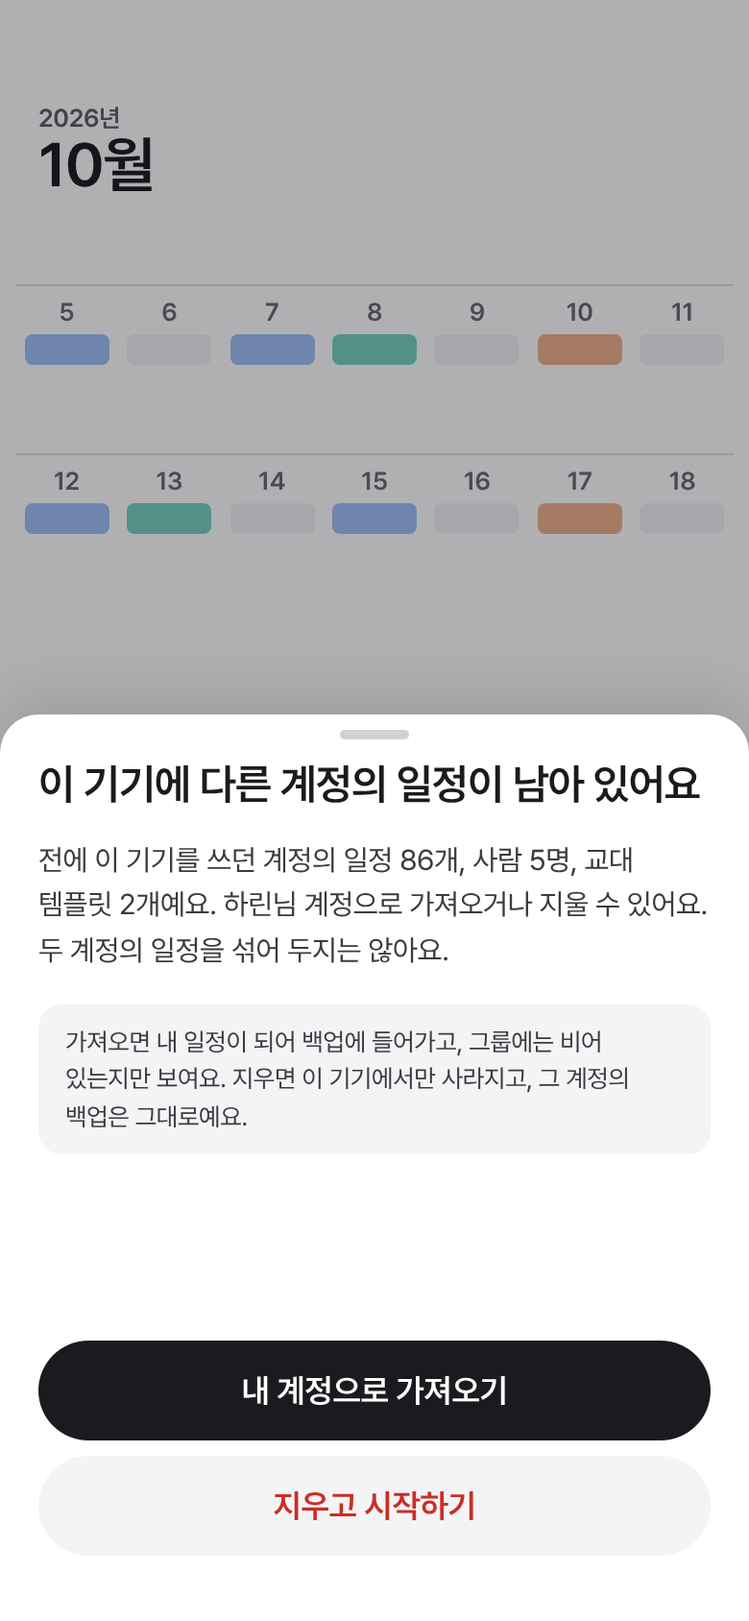
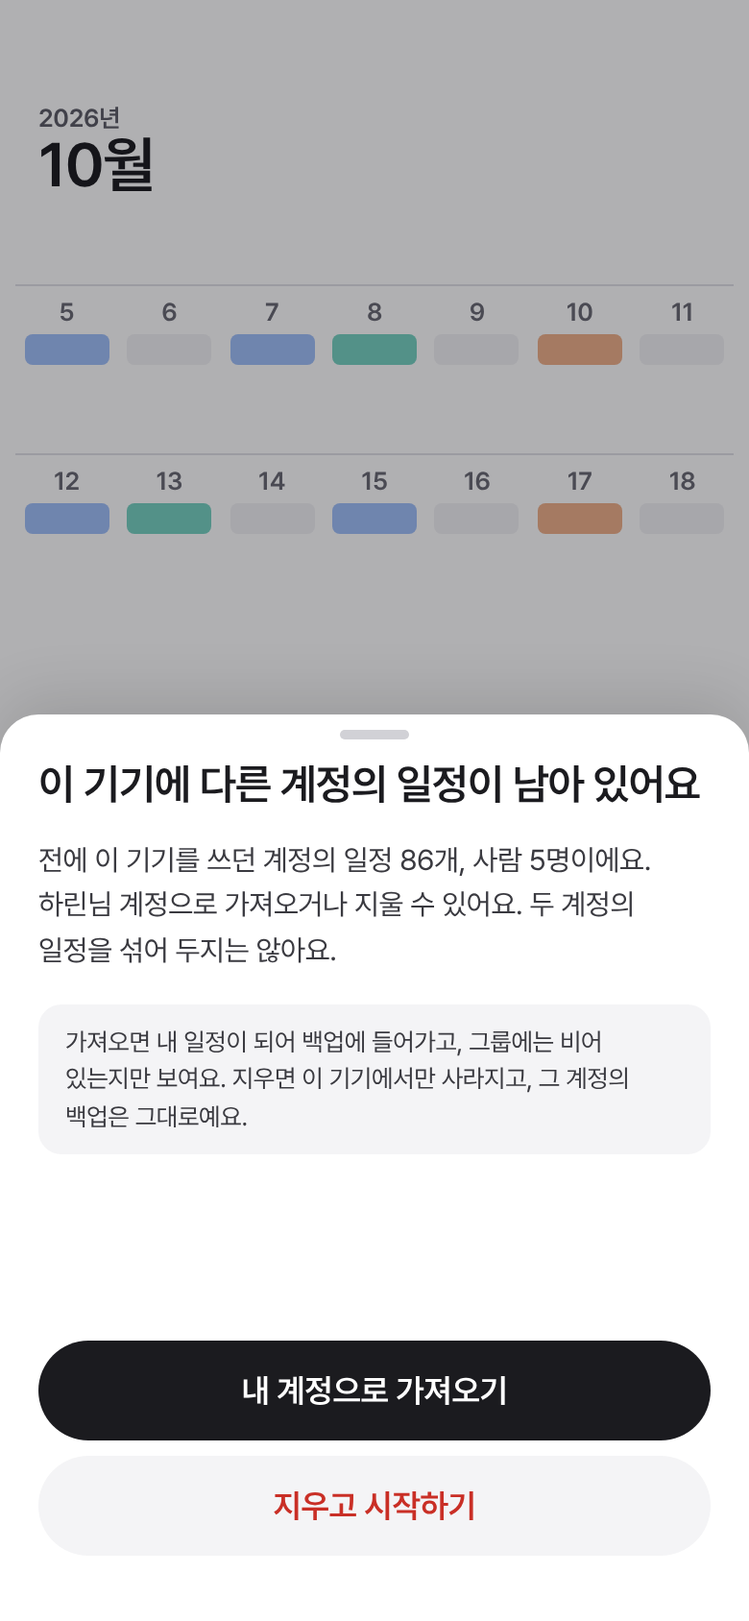
docs(design): settle the recovery-entry decisions raised by the iOS foundation PR
Recovery words show the only completion as a hint and fill it when the
cell is left, because Hangul composition passes through other words'
prefixes. The keep-or-discard sheet (screen 24) now comes before the
restore, since the core's restoreFromCode takes that choice as input,
and its copy drops the template count the core cannot give. A guest who
skipped the age checkbox goes back to sign-in before a new account, the
default display names and the brand-button opacity exception are written
down, and the KeepLocal board and PNG follow the new copy.

Claude-Session: https://claude.ai/code/session_01NfNQYytRc1WA56NULSw6PM

Changed region(s): [[0.0615, 0.5237, 0.9231, 0.6161]]

diff --git a/docs/design/boards/KeepLocal.dc.html b/docs/design/boards/KeepLocal.dc.html
@@ -18,7 +18,7 @@ input::placeholder{color:#696973}
 </style>
 </helmet>
 <div style="width: 390px; height: 844px; position: relative; overflow: hidden; background: #ffffff; color: #1b1b1f; font-family: Pretendard, -apple-system, BlinkMacSystemFont, 'Apple SD Gothic Neo', 'Noto Sans KR', sans-serif; letter-spacing: -0.01em; word-break: keep-all; overflow-wrap: break-word">
-<div aria-hidden="true" style="position: absolute; inset: 0"><div style="position: absolute; top: 54px; left: 20px; display: flex; flex-direction: column"><span style="font-size: 13px; font-weight: 600; color: #5c5c66">2026년</span><span style="font-size: 32px; font-weight: 600; line-height: 1.1; letter-spacing: -0.025em">10월</span></div><div style="position: absolute; top: 148px; left: 8px; width: 374px; display: grid; grid-template-columns: repeat(7, minmax(0, 1fr)); grid-auto-rows: 88px"><div style="border-top: 1px solid #e1e1e6; display: flex; flex-direction: column; align-items: center; padding-top: 6px; gap: 4px"><span style="font-size: 13px; font-weight: 600; color: #696973">5</span><span style="width: 44px; height: 16px; border-radius: 4px; background: #a0c0fa"></span></div><div style="border-top: 1px solid #e1e1e6; display: flex; flex-direction: column; align-items: center; padding-top: 6px; gap: 4px"><span style="font-size: 13px; font-weight: 600; color: #696973">6</span><span style="width: 44px; height: 16px; border-radius: 4px; background: #f2f2f5"></span></div><div style="border-top: 1px solid #e1e1e6; display: flex; flex-direction: column; align-items: center; padding-top: 6px; gap: 4px"><span style="font-size: 13px; font-weight: 600; color: #696973">7</span><span style="width: 44px; height: 16px; border-radius: 4px; background: #a0c0fa"></span></div><div style="border-top: 1px solid #e1e1e6; display: flex; flex-direction: column; align-items: center; padding-top: 6px; gap: 4px"><span style="font-size: 13px; font-weight: 600; color: #696973">8</span><span style="width: 44px; height: 16px; border-radius: 4px; background: #77d1c2"></span></div><div style="border-top: 1px solid #e1e1e6; display: flex; flex-direction: column; align-items: center; padding-top: 6px; gap: 4px"><span style="font-size: 13px; font-weight: 600; color: #696973">9</span><span style="width: 44px; height: 16px; border-radius: 4px; background: #f2f2f5"></span></div><div style="border-top: 1px solid #e1e1e6; display: flex; flex-direction: column; align-items: center; padding-top: 6px; gap: 4px"><span style="font-size: 13px; font-weight: 600; color: #696973">10</span><span style="width: 44px; height: 16px; border-radius: 4px; background: #efb08a"></span></div><div style="border-top: 1px solid #e1e1e6; display: flex; flex-direction: column; align-items: center; padding-top: 6px; gap: 4px"><span style="font-size: 13px; font-weight: 600; color: #696973">11</span><span style="width: 44px; height: 16px; border-radius: 4px; background: #f2f2f5"></span></div><div style="border-top: 1px solid #e1e1e6; display: flex; flex-direction: column; align-items: center; padding-top: 6px; gap: 4px"><span style="font-size: 13px; font-weight: 600; color: #696973">12</span><span style="width: 44px; height: 16px; border-radius: 4px; background: #a0c0fa"></span></div><div style="border-top: 1px solid #e1e1e6; display: flex; flex-direction: column; align-items: center; padding-top: 6px; gap: 4px"><span style="font-size: 13px; font-weight: 600; color: #696973">13</span><span style="width: 44px; height: 16px; border-radius: 4px; background: #77d1c2"></span></div><div style="border-top: 1px solid #e1e1e6; display: flex; flex-direction: column; align-items: center; padding-top: 6px; gap: 4px"><span style="font-size: 13px; font-weight: 600; color: #696973">14</span><span style="width: 44px; height: 16px; border-radius: 4px; background: #f2f2f5"></span></div><div style="border-top: 1px solid #e1e1e6; display: flex; flex-direction: column; align-items: center; padding-top: 6px; gap: 4px"><span style="font-size: 13px; font-weight: 600; color: #696973">15</span><span style="width: 44px; height: 16px; border-radius: 4px; background: #a0c0fa"></span></div><div style="border-top: 1px solid #e1e1e6; display: flex; flex-direction: column; align-items: center; padding-top: 6px; gap: 4px"><span style="font-size: 13px; font-weight: 600; color: #696973">16</span><span style="width: 44px; height: 16px; border-radius: 4px; background: #f2f2f5"></span></div><div style="border-top: 1px solid #e1e1e6; display: flex; flex-direction: column; align-items: center; padding-top: 6px; gap: 4px"><span style="font-size: 13px; font-weight: 600; color: #696973">17</span><span style="width: 44px; height: 16px; border-radius: 4px; background: #efb08a"></span></div><div style="border-top: 1px solid #e1e1e6; display: flex; flex-direction: column; align-items: center; padding-top: 6px; gap: 4px"><span style="font-size: 13px; font-weight: 600; color: #696973">18</span><span style="width: 44px; height: 16px; border-radius: 4px; background: #f2f2f5"></span></div></div><div style="position: absolute; inset: 0; background: rgba(10,10,14,0.32)"></div></div><section role="dialog" aria-modal="true" aria-label="이 기기에 남은 일정" style="position: absolute; left: 0; top: 372px; width: 390px; height: 472px; box-sizing: border-box; padding: 8px 20px 34px; background: #ffffff; border-radius: 20px 20px 0 0; box-shadow: 0 -8px 32px rgba(0,0,0,0.12); display: flex; flex-direction: column; gap: 16px"><div aria-hidden="true" style="align-self: center; width: 36px; height: 5px; border-radius: 3px; background: #d1d1d6"></div><h2 style="margin: -6px 0 0; font-size: 22px; font-weight: 600; letter-spacing: -0.02em">이 기기에 다른 계정의 일정이 남아 있어요</h2><p style="margin: 0; font-size: 15px; line-height: 1.55; color: #3a3a40">전에 이 기기를 쓰던 계정의 일정 86개, 사람 5명, 교대 템플릿 2개예요. 하린님 계정으로 가져오거나 지울 수 있어요. 두 계정의 일정을 섞어 두지는 않아요.</p><p style="margin: 0; padding: 10px 14px; border-radius: 12px; background: #f4f4f6; font-size: 13px; line-height: 1.5; color: #3a3a40">가져오면 내 일정이 되어 백업에 들어가고, 그룹에는 비어 있는지만 보여요. 지우면 이 기기에서만 사라지고, 그 계정의 백업은 그대로예요.</p><div style="margin-top: auto; display: flex; flex-direction: column; gap: 8px"><a href="Month.dc.html" style="height: 52px; border-radius: 999px; background: #1b1b1f; color: #ffffff; display: flex; align-items: center; justify-content: center; font-size: 17px; font-weight: 600">내 계정으로 가져오기</a><a href="Month.dc.html" style="height: 52px; border-radius: 999px; background: #f4f4f6; color: #c92f26; display: flex; align-items: center; justify-content: center; font-size: 17px; font-weight: 600">지우고 시작하기</a></div></section>
+<div aria-hidden="true" style="position: absolute; inset: 0"><div style="position: absolute; top: 54px; left: 20px; display: flex; flex-direction: column"><span style="font-size: 13px; font-weight: 600; color: #5c5c66">2026년</span><span style="font-size: 32px; font-weight: 600; line-height: 1.1; letter-spacing: -0.025em">10월</span></div><div style="position: absolute; top: 148px; left: 8px; width: 374px; display: grid; grid-template-columns: repeat(7, minmax(0, 1fr)); grid-auto-rows: 88px"><div style="border-top: 1px solid #e1e1e6; display: flex; flex-direction: column; align-items: center; padding-top: 6px; gap: 4px"><span style="font-size: 13px; font-weight: 600; color: #696973">5</span><span style="width: 44px; height: 16px; border-radius: 4px; background: #a0c0fa"></span></div><div style="border-top: 1px solid #e1e1e6; display: flex; flex-direction: column; align-items: center; padding-top: 6px; gap: 4px"><span style="font-size: 13px; font-weight: 600; color: #696973">6</span><span style="width: 44px; height: 16px; border-radius: 4px; background: #f2f2f5"></span></div><div style="border-top: 1px solid #e1e1e6; display: flex; flex-direction: column; align-items: center; padding-top: 6px; gap: 4px"><span style="font-size: 13px; font-weight: 600; color: #696973">7</span><span style="width: 44px; height: 16px; border-radius: 4px; background: #a0c0fa"></span></div><div style="border-top: 1px solid #e1e1e6; display: flex; flex-direction: column; align-items: center; padding-top: 6px; gap: 4px"><span style="font-size: 13px; font-weight: 600; color: #696973">8</span><span style="width: 44px; height: 16px; border-radius: 4px; background: #77d1c2"></span></div><div style="border-top: 1px solid #e1e1e6; display: flex; flex-direction: column; align-items: center; padding-top: 6px; gap: 4px"><span style="font-size: 13px; font-weight: 600; color: #696973">9</span><span style="width: 44px; height: 16px; border-radius: 4px; background: #f2f2f5"></span></div><div style="border-top: 1px solid #e1e1e6; display: flex; flex-direction: column; align-items: center; padding-top: 6px; gap: 4px"><span style="font-size: 13px; font-weight: 600; color: #696973">10</span><span style="width: 44px; height: 16px; border-radius: 4px; background: #efb08a"></span></div><div style="border-top: 1px solid #e1e1e6; display: flex; flex-direction: column; align-items: center; padding-top: 6px; gap: 4px"><span style="font-size: 13px; font-weight: 600; color: #696973">11</span><span style="width: 44px; height: 16px; border-radius: 4px; background: #f2f2f5"></span></div><div style="border-top: 1px solid #e1e1e6; display: flex; flex-direction: column; align-items: center; padding-top: 6px; gap: 4px"><span style="font-size: 13px; font-weight: 600; color: #696973">12</span><span style="width: 44px; height: 16px; border-radius: 4px; background: #a0c0fa"></span></div><div style="border-top: 1px solid #e1e1e6; display: flex; flex-direction: column; align-items: center; padding-top: 6px; gap: 4px"><span style="font-size: 13px; font-weight: 600; color: #696973">13</span><span style="width: 44px; height: 16px; border-radius: 4px; background: #77d1c2"></span></div><div style="border-top: 1px solid #e1e1e6; display: flex; flex-direction: column; align-items: center; padding-top: 6px; gap: 4px"><span style="font-size: 13px; font-weight: 600; color: #696973">14</span><span style="width: 44px; height: 16px; border-radius: 4px; background: #f2f2f5"></span></div><div style="border-top: 1px solid #e1e1e6; display: flex; flex-direction: column; align-items: center; padding-top: 6px; gap: 4px"><span style="font-size: 13px; font-weight: 600; color: #696973">15</span><span style="width: 44px; height: 16px; border-radius: 4px; background: #a0c0fa"></span></div><div style="border-top: 1px solid #e1e1e6; display: flex; flex-direction: column; align-items: center; padding-top: 6px; gap: 4px"><span style="font-size: 13px; font-weight: 600; color: #696973">16</span><span style="width: 44px; height: 16px; border-radius: 4px; background: #f2f2f5"></span></div><div style="border-top: 1px solid #e1e1e6; display: flex; flex-direction: column; align-items: center; padding-top: 6px; gap: 4px"><span style="font-size: 13px; font-weight: 600; color: #696973">17</span><span style="width: 44px; height: 16px; border-radius: 4px; background: #efb08a"></span></div><div style="border-top: 1px solid #e1e1e6; display: flex; flex-direction: column; align-items: center; padding-top: 6px; gap: 4px"><span style="font-size: 13px; font-weight: 600; color: #696973">18</span><span style="width: 44px; height: 16px; border-radius: 4px; background: #f2f2f5"></span></div></div><div style="position: absolute; inset: 0; background: rgba(10,10,14,0.32)"></div></div><section role="dialog" aria-modal="true" aria-label="이 기기에 남은 일정" style="position: absolute; left: 0; top: 372px; width: 390px; height: 472px; box-sizing: border-box; padding: 8px 20px 34px; background: #ffffff; border-radius: 20px 20px 0 0; box-shadow: 0 -8px 32px rgba(0,0,0,0.12); display: flex; flex-direction: column; gap: 16px"><div aria-hidden="true" style="align-self: center; width: 36px; height: 5px; border-radius: 3px; background: #d1d1d6"></div><h2 style="margin: -6px 0 0; font-size: 22px; font-weight: 600; letter-spacing: -0.02em">이 기기에 다른 계정의 일정이 남아 있어요</h2><p style="margin: 0; font-size: 15px; line-height: 1.55; color: #3a3a40">전에 이 기기를 쓰던 계정의 일정 86개, 사람 5명이에요. 하린님 계정으로 가져오거나 지울 수 있어요. 두 계정의 일정을 섞어 두지는 않아요.</p><p style="margin: 0; padding: 10px 14px; border-radius: 12px; background: #f4f4f6; font-size: 13px; line-height: 1.5; color: #3a3a40">가져오면 내 일정이 되어 백업에 들어가고, 그룹에는 비어 있는지만 보여요. 지우면 이 기기에서만 사라지고, 그 계정의 백업은 그대로예요.</p><div style="margin-top: auto; display: flex; flex-direction: column; gap: 8px"><a href="Month.dc.html" style="height: 52px; border-radius: 999px; background: #1b1b1f; color: #ffffff; display: flex; align-items: center; justify-content: center; font-size: 17px; font-weight: 600">내 계정으로 가져오기</a><a href="Month.dc.html" style="height: 52px; border-radius: 999px; background: #f4f4f6; color: #c92f26; display: flex; align-items: center; justify-content: center; font-size: 17px; font-weight: 600">지우고 시작하기</a></div></section>
 </div>
 </x-dc>
 <script type="text/x-dc" data-dc-script data-props='{"$preview":{"width":390,"height":844}}'>

diff --git a/docs/design/m1.md b/docs/design/m1.md
@@ -162,8 +162,8 @@ flowchart TD
 
 | 항목 | 내용 |
 | --- | --- |
-| 구성 | 뒤로 → 제목 "그날어때 시작하기" → 설명 "계정은 로그인과 멤버 목록에만 써요…" → (아래쪽) 체크박스 "만 14세 이상이에요 · 확인한 시각만 저장해요" → 카카오 버튼(노랑 `#FEE500`, 글자 `#191919`, 카카오 규정) → Apple 버튼(검정, Apple 규정) → 글자 버튼 두 개 "게스트로 둘러보기 · 복구 코드로 돌아오기" → 약관 두 줄 |
-| 상태 | 체크 전: 두 로그인 버튼과 게스트 꺼짐(`fill`/`tertiaryText`). "복구 코드로 돌아오기"는 기존 계정으로 돌아오는 길이라 체크와 상관없이 켜져 있음(만 14세 확인은 계정을 만들 때만). 로그인 실패: 토스트 "로그인이 안 됐어요. 다시 시도해 주세요". 네트워크 없음: 카카오·Apple 버튼 꺼짐, 토스트 "연결이 없어요. 게스트로 시작하고 나중에 연결할 수 있어요". 이때 게스트는 체크한 시각만 기기에 두고 들어가며, 처음 연결될 때 계정을 만듭니다 |
+| 구성 | 뒤로 → 제목 "그날어때 시작하기" → 설명 "계정은 로그인과 멤버 목록에만 써요…" → (아래쪽) 체크박스 "만 14세 이상이에요 · 확인한 시각만 저장해요" → 카카오 버튼("카카오로 시작하기", 노랑 `#FEE500`, 글자 `#191919`, 카카오 규정) → Apple 버튼("Apple로 계속하기", 검정 바탕에 Apple 로고, HIG) → 글자 버튼 두 개 "게스트로 둘러보기 · 복구 코드로 돌아오기" → 약관 두 줄 |
+| 상태 | 체크 전: 카카오·Apple 버튼은 브랜드 규정상 색을 바꿀 수 없어 불투명도 0.4로 흐리게 하고([컴포넌트](components.md)의 유일한 예외), 게스트 글자 버튼은 `tertiaryText`로 끕니다. "복구 코드로 돌아오기"는 기존 계정으로 돌아오는 길이라 체크와 상관없이 켜져 있음(만 14세 확인은 계정을 만들 때만). 로그인 실패: 토스트 "로그인이 안 됐어요. 다시 시도해 주세요". 네트워크 없음: 카카오·Apple 버튼 꺼짐, 토스트 "연결이 없어요. 게스트로 시작하고 나중에 연결할 수 있어요". 이때 게스트는 체크한 시각만 기기에 두고 들어가며, 처음 연결될 때 계정을 만듭니다 |
 | 코어 | `auth.kakao(token)`, `auth.apple(token)`, `auth.guest({ ageConfirmedAt, displayName: "게스트" })` → `registered` / `replace_required`(교체 티켓). 게스트 복귀는 21번 화면에서 `auth.recover(words)` |
 | 플랫폼 | iOS는 Sign in with Apple 버튼을 카카오보다 아래에 둬도 되지만 같은 크기여야 합니다(지침 4.8). 안드로이드는 Apple 로그인을 웹 흐름으로 엽니다 |
 
@@ -331,8 +331,8 @@ flowchart TD
 | --- | --- |
 | 구성 | 머리글 "‹ 로그인" → 제목 + 설명 → 진행 "7 / 12" + 작은 알약 "붙여넣기" → 12칸 격자(3열 48, 채운 칸은 `groupedBackground`, 현재 칸은 먹색 2pt 테두리) → 안심 카드(단어는 기기에서만, 두 글자면 단어가 정해짐, 틀리면 빨갛게, 횟수 제한 없음) → 주요 버튼(12단어 전에는 꺼짐 "단어 N개 더") → 글자 버튼 "복구 코드가 없어요" |
 | 변형 | 기기 바꾸기: 제목 "기기 바꾸기", 설명 "이 계정은 다른 기기에서 쓰고 있어요. 복구 코드 12단어를 넣으면 암호화 백업을 이 기기로 가져오고, 이전 기기는 로그아웃돼요.", 버튼 "백업 가져오기". 게스트: 제목 "복구 코드로 돌아오기", 설명 "게스트 계정은 복구 코드가 곧 열쇠예요. 12단어를 넣으면 계정을 찾고 암호화 백업을 이 기기로 가져와요. 이전 기기는 로그아웃돼요.", 버튼 "계정 찾기" |
-| 단어 | BIP39 한국어 목록 2048개를 NFC로 보여 주고 비교합니다. 두 음절이면 단어가 하나로 정해지므로 칸에 두 글자를 넣으면 자동 완성합니다. 시안의 예시 단어는 목록에 있는 것(바람, 연필, 구름, 달력, 열쇠, 우산, 단추, 마당, 편지, 소풍, 거울, 하늘)입니다 |
-| 동작 | 붙여넣기 → 12단어 한 번에. 가져오기 → 진행 화면(잠금 풀고 받는 중 · 크기) → "돌아왔어요" → "캘린더 열기". 기기 바꾸기는 복원이 끝난 뒤 `POST /auth/replace`로 이전 기기를 해제하고, 게스트 복귀는 `POST /auth/recover`가 성공하는 순간 해제됩니다 |
+| 단어 | BIP39 한국어 목록 2048개를 NFC로 보여 주고 비교합니다. 앞부분이 한 단어로만 이어지면 그 단어의 나머지를 `tertiaryText` 힌트로 뒤에 보여 주고, 칸을 떠날 때(리턴, 띄어쓰기, 다른 칸 탭) 채웁니다. 단어를 끝까지 치면 바로 다음 칸으로 넘어갑니다. 치는 도중에 바꾸지 않는 것은 한글 조합 중에 다른 단어의 앞부분을 지나가기 때문입니다("가입"을 치는 중의 "가이"는 "가이드"로만 이어짐). 안심 카드의 "두 글자면 단어가 정해져요"는 이 힌트로 지킵니다. 시안의 예시 단어는 목록에 있는 것(바람, 연필, 구름, 달력, 열쇠, 우산, 단추, 마당, 편지, 소풍, 거울, 하늘)입니다 |
+| 동작 | 붙여넣기 → 12단어 한 번에. 가져오기 → 이 기기에 다른 계정의(또는 주인을 아직 모르는) 일정이 남아 있으면 24번 시트에서 가져오기·지우기를 먼저 고르고(코어 `restoreFromCode`의 입력) → 진행 화면(잠금 풀고 받는 중 · 크기) → "돌아왔어요" → "캘린더 열기". 기기 바꾸기는 복원이 끝난 뒤 `POST /auth/replace`로 이전 기기를 해제하고, 게스트 복귀는 `POST /auth/recover`가 성공하는 순간 해제됩니다 |
 | 코어 | `recovery.validateWord(text)`, `recovery.checksum(words)`, `recovery.restore(words)` 또는 `auth.recover(words)`(진행 콜백) → 통계, `device.replace()` |
 
 오류 상태는 아래 순서로 판정합니다. 문구는 [문구와 톤](tone.md#복구-코드)에도 있습니다.
@@ -346,7 +346,7 @@ flowchart TD
 | 티켓 만료 | 401 `token_expired`(30분) | 토스트 "시간이 지나 처음부터 다시 로그인해 주세요" → 로그인 화면 | |
 | 연결 없음 | 요청 실패 | 빨간 카드 대신 회색 카드 "연결이 없어요. 연결되면 다시 시도할게요." | 켜짐 "다시 시도" |
 
-코드 없음 시트: 기기 바꾸기는 "복구 코드 없이는 되찾을 수 없어요" + 빨간 글자 "백업 없이 새로 시작"(`new_key: true`로 이전 백업이 지워짐을 설명). 게스트는 "복구 코드 없이는 게스트 계정을 찾을 수 없어요" + "새 게스트 계정으로 시작"(이전 계정의 일정·그룹·백업은 돌아오지 않음). 둘 다 "이전 기기에서 찾아볼게요"로 닫습니다.
+코드 없음 시트: 기기 바꾸기는 "복구 코드 없이는 되찾을 수 없어요" + 빨간 글자 "백업 없이 새로 시작"(`new_key: true`로 이전 백업이 지워짐을 설명). 게스트는 "복구 코드 없이는 게스트 계정을 찾을 수 없어요" + "새 게스트 계정으로 시작"(이전 계정의 일정·그룹·백업은 돌아오지 않음). 둘 다 "이전 기기에서 찾아볼게요"로 닫습니다. 만 14세 체크 없이 "복구 코드로 돌아오기"로 왔다면 "새 게스트 계정으로 시작"은 로그인 화면으로 돌아가 체크부터 하게 하고, 토스트 "만 14세 이상인지 확인하면 게스트로 시작할 수 있어요"를 띄웁니다. 이미 체크했으면 바로 게스트로 시작합니다.
 
 ### 22. 계정 삭제
 
@@ -372,11 +372,11 @@ flowchart TD
 
 | 항목 | 내용 |
 | --- | --- |
-| 언제 | 로그인(새 계정·기존 계정)이나 복원이 끝났는데 이 기기의 저장소에 적힌 주인 `user_id`가 다른 계정일 때. 함께 쓰거나 넘겨받은 기기, 계정을 삭제한 뒤 새 계정으로 시작한 기기에서 생깁니다. 같은 계정이면 묻지 않고 합칩니다 |
-| 구성 | 시트(372부터) → 제목 "이 기기에 다른 계정의 일정이 남아 있어요" → 설명 "전에 이 기기를 쓰던 계정의 일정 86개, 사람 5명, 교대 템플릿 2개예요. 하린님 계정으로 가져오거나 지울 수 있어요. 두 계정의 일정을 섞어 두지는 않아요." → 안내 카드(가져오면 내 일정이 되어 백업에 들어가고 그룹에는 비어 있는지만 보임 / 지우면 이 기기에서만 사라지고 그 계정의 백업은 그대로) → 주요 버튼 "내 계정으로 가져오기" → 빨간 글자 "지우고 시작하기" |
-| 동작 | 둘 중 하나를 골라야 닫힙니다(끌어내려 닫기 없음, 흐림막 탭 없음). 가져오기 → 로컬 항목의 주인을 새 계정으로 바꾸고 백업과 합침(같은 ID는 백업이 이김) → 다음 화면. 지우기 → 로컬 캘린더 저장소를 비우고 → 다음 화면. 이전 계정의 이름은 보여 주지 않습니다(이 기기에 그 이름이 없을 수 있고, 있어도 보여 줄 이유가 없음) |
-| 다음 화면 | 새 계정이면 권한 화면, 복원이면 "돌아왔어요", 로그아웃됐던 기기가 다른 계정으로 들어오면 월 보기 |
-| 코어 | `store.owner()` → `{sameAccount, counts}`, `store.adopt()`, `store.wipeCalendar()` |
+| 언제 | 로그인(새 계정·기존 계정)이 끝났거나 복원을 시작하려는데 이 기기의 저장소에 적힌 주인 `user_id`가 다른 계정일 때, 그리고 게스트 복귀처럼 코드를 확인하기 전이라 주인을 알 수 없을 때. 함께 쓰거나 넘겨받은 기기, 계정을 삭제한 뒤 새 계정으로 시작한 기기에서 생깁니다. 같은 계정이면 묻지 않고 합치고, 주인을 모른 채 물었다가 같은 계정으로 밝혀지면 선택과 상관없이 합칩니다 |
+| 구성 | 시트(372부터) → 제목 "이 기기에 다른 계정의 일정이 남아 있어요" → 설명 "전에 이 기기를 쓰던 계정의 일정 86개, 사람 5명이에요. 하린님 계정으로 가져오거나 지울 수 있어요. 두 계정의 일정을 섞어 두지는 않아요." → 안내 카드(가져오면 내 일정이 되어 백업에 들어가고 그룹에는 비어 있는지만 보임 / 지우면 이 기기에서만 사라지고 그 계정의 백업은 그대로) → 주요 버튼 "내 계정으로 가져오기" → 빨간 글자 "지우고 시작하기" |
+| 동작 | 둘 중 하나를 골라야 닫힙니다(끌어내려 닫기 없음, 흐림막 탭 없음). 가져오기 → 로컬 항목의 주인을 새 계정으로 바꾸고 백업과 합침(같은 ID는 백업이 이김) → 다음 화면. 지우기 → 로컬 캘린더 저장소를 비우고 → 다음 화면. 복원 전에 물었을 때는 코드가 맞아 백업이 열리는 순간에만 지우고, 틀린 코드면 아무것도 지우지 않습니다. 이전 계정의 이름은 보여 주지 않습니다(이 기기에 그 이름이 없을 수 있고, 있어도 보여 줄 이유가 없음) |
+| 다음 화면 | 새 계정이면 권한 화면, 복원이면 진행 화면 → "돌아왔어요"(시트는 복원 전에 뜸), 로그아웃됐던 기기가 다른 계정으로 들어오면 월 보기 |
+| 코어 | `account.localDataOfOtherAccount()` → `{events, people}` 또는 없음(물을 것이 없음). 선택은 `restoreFromCode(words, keep·discard)`의 입력입니다. 복원 없는 로그인(새 계정, 백업 없음, 새로 시작) 뒤의 선택을 넘길 함수는 아직 없어 코어가 더해야 합니다(iOS PR #36 결정 2) |
 
 ## 4. 공통 상태
 
@@ -416,3 +416,11 @@ flowchart TD
 16. **게스트도 로그인 화면의 만 14세 체크를 거칩니다.** 이름은 "게스트"로 보내고, 오프라인이면 체크한 시각을 기기에 뒀다가 처음 연결될 때 계정을 만듭니다(코어 PR #29의 결정 3).
 17. **기본 캘린더는 '개인' 하나, '알바'는 첫 교대 템플릿 때 코어가 만듭니다.** 기기 캘린더는 '기기 캘린더' 색 한 가지입니다(#29의 결정 4·8).
 18. **교대 템플릿은 캘린더 색의 명도 단계(`tint` 1–5)로 구분하고 색을 따로 고르지 않습니다**(#29의 결정 5).
+
+### 검토할 것 (iOS PR #36에 맞춘 보완)
+
+19. **복구 단어는 힌트로 보여 주고 칸을 떠날 때 채웁니다.** 앞부분이 한 단어로만 이어지면 나머지를 흐린 힌트로 붙이고, 리턴·띄어쓰기·다른 칸 탭에서 그 단어로 채웁니다. 끝까지 친 단어는 바로 다음 칸으로 넘어갑니다. 한글 조합 중에는 다른 단어의 앞부분을 지나가므로("가이" → "가이드") 칠 때마다 바꾸지 않습니다. 붙여넣기는 그대로 12단어를 한 번에 채웁니다.
+20. **가져오기·지우기(24번)는 복원 전에 묻습니다.** 코어 `restoreFromCode`가 선택을 입력으로 받기 때문입니다. 게스트 복귀는 계정을 알기 전이라 "주인을 모르는 일정"에도 묻고, 같은 계정으로 밝혀지면 선택과 상관없이 합칩니다. 지우기는 코드가 맞아 백업이 열릴 때만 실행하고, 틀린 코드면 지우지 않습니다. 시트 문구는 코어가 주는 일정·사람 수만 쓰고 교대 템플릿 수는 뺍니다.
+21. **만 14세 체크 없이 돌아온 게스트가 "새 게스트 계정으로 시작"을 누르면 로그인 화면으로 돌아가 체크부터 합니다.** 토스트 "만 14세 이상인지 확인하면 게스트로 시작할 수 있어요"를 띄우고, 이미 체크했으면 바로 시작합니다.
+22. **계정 이름 기본값은 "카카오 사용자", "Apple 사용자", "게스트"이고 40자에서 자릅니다.** 서버로 가는 값이라 화면 문자열이 아니고(계약 `display_name` 1–40자), 자를 때는 글자(grapheme) 단위로 잘라 이모지가 깨지지 않게 합니다. 나 화면에서 언제든 바꿀 수 있습니다.
+23. **로그인 버튼은 브랜드 규정을 따르고, 체크 전에는 불투명도 0.4로 흐립니다.** Apple은 검은 바탕에 로고와 "Apple로 계속하기", 카카오는 `#FEE500`에 "카카오로 시작하기"입니다. 꺼짐을 `fill`/`tertiaryText`로 그리는 규칙의 유일한 예외입니다. 두 버튼은 같은 크기(52)입니다.

diff --git a/docs/design/tone.md b/docs/design/tone.md
@@ -109,9 +109,10 @@
 | 교체 티켓 만료 | 시간이 지나 처음부터 다시 로그인해 주세요. |
 | 코드 없음(기기 바꾸기) | 복구 코드 없이는 되찾을 수 없어요 · 백업 없이 새로 시작 |
 | 코드 없음(게스트) | 복구 코드 없이는 게스트 계정을 찾을 수 없어요 · 새 게스트 계정으로 시작 |
+| 나이 확인 전 게스트 시작(토스트) | 만 14세 이상인지 확인하면 게스트로 시작할 수 있어요. |
 | 다른 기기에서 로그인함(카카오·Apple) | 다른 기기에서 로그인했어요. 캘린더는 그대로 쓸 수 있어요. 내가 한 로그인이 아니라면 카카오·Apple 계정이 다른 사람에게 알려졌을 수 있어요. 그 계정의 비밀번호를 바꿔 주세요. |
 | 다른 기기에서 들어옴(복구 코드) | 복구 코드로 다른 기기에서 들어왔어요. 내가 한 게 아니라면 복구 코드를 적은 종이를 누가 봤을 수 있어요. 다시 로그인한 뒤 카카오·Apple 계정을 연결해 두세요. |
-| 다른 계정의 일정이 남음 | 이 기기에 다른 계정의 일정이 남아 있어요. 내 계정으로 가져오기 · 지우고 시작하기 |
+| 다른 계정의 일정이 남음 | 이 기기에 다른 계정의 일정이 남아 있어요. 전에 이 기기를 쓰던 계정의 일정 86개, 사람 5명이에요. · 내 계정으로 가져오기 · 지우고 시작하기 |
 | 카카오·Apple 계정 삭제 | 카카오 계정이라 ‘삭제’를 적은 뒤 카카오 로그인을 한 번 더 받아요. 세션만 훔친 사람이 계정을 지우지 못하게 하려는 거예요. · 카카오로 확인하고 삭제 |
 | 삭제 재인증 실패 | 이 계정에 연결된 카카오 계정으로 다시 확인해 주세요. 다른 계정으로 로그인하면 지울 수 없어요. · 카카오로 다시 확인 |
 

diff --git a/docs/design/screens.md b/docs/design/screens.md
@@ -84,7 +84,7 @@
 | 기기 로그아웃됨 | 복구 코드로 들어왔을 때 | 다른 계정의 일정이 남았을 때 | 계정 삭제 · 재인증 실패 |
 | --- | --- | --- | --- |
 | <img src="screens/m1/23-revoked@2x.png" width="200" alt="기기 로그아웃됨"> | <img src="screens/m1/23-revoked--recovery@2x.png" width="200" alt="복구 코드로 들어옴"> | <img src="screens/m1/24-keep-local@2x.png" width="200" alt="다른 계정의 일정"> | <img src="screens/m1/22-delete-account--reauth-failed@2x.png" width="200" alt="삭제 재인증 실패"> |
-| 다른 기기에서 로그인한 뒤 이전 기기가 받는 시트. 남는 것과 지워지는 것을 나란히 보여 주고, 캘린더는 계속 쓰게 둡니다. | `replaced_via`가 복구 코드면 종이가 노출됐을 수 있다고 말하고 카카오·Apple 연결을 권합니다. | 로그인·복원 뒤 저장소가 다른 계정의 것이면 가져오기와 지우기 중 하나를 고릅니다. | 다른 카카오·Apple 계정으로 로그인하면 403 `reauth_required`. 시트에서 바로 다시 확인합니다. 게스트는 [추가 단계 없이](screens/m1/22-delete-account--guest@2x.png) 지웁니다. |
+| 다른 기기에서 로그인한 뒤 이전 기기가 받는 시트. 남는 것과 지워지는 것을 나란히 보여 주고, 캘린더는 계속 쓰게 둡니다. | `replaced_via`가 복구 코드면 종이가 노출됐을 수 있다고 말하고 카카오·Apple 연결을 권합니다. | 로그인 뒤나 복원 전에 저장소가 다른 계정의 것이면 가져오기와 지우기 중 하나를 고릅니다. | 다른 카카오·Apple 계정으로 로그인하면 403 `reauth_required`. 시트에서 바로 다시 확인합니다. 게스트는 [추가 단계 없이](screens/m1/22-delete-account--guest@2x.png) 지웁니다. |
 
 ## M2 그룹·날짜 잡기
 

diff --git a/docs/design/components.md b/docs/design/components.md
@@ -10,7 +10,7 @@
 | --- | --- |
 | 누를 수 있는 최소 크기 | 44×44. 보이는 모양이 작아도 누르는 영역은 44 |
 | 누름 | 0.97배로 줄고 120ms에 돌아옴. 색은 바꾸지 않음 |
-| 꺼짐 | 바탕 `fill`, 글자 `tertiaryText`. 흐리게(opacity) 하지 않음. 이유를 버튼 이름에 적음 |
+| 꺼짐 | 바탕 `fill`, 글자 `tertiaryText`. 흐리게(opacity) 하지 않음. 이유를 버튼 이름에 적음. 유일한 예외는 색을 바꿀 수 없는 카카오·Apple 로그인 버튼으로, 불투명도 0.4로 끔 |
 | 초점(키보드·스위치 제어) | 바깥 2pt `ink` 테두리, 모서리는 컴포넌트와 같게 |
 | 모서리 | 띠 4 · 칸 8 · 입력 12 · 카드·시트 20 · 알약 999 |
 | 글자 크기 설정 | 글자가 커지면 높이가 따라 늘고, 가로로 넘치면 줄바꿈. 잘라 내지 않음 |
